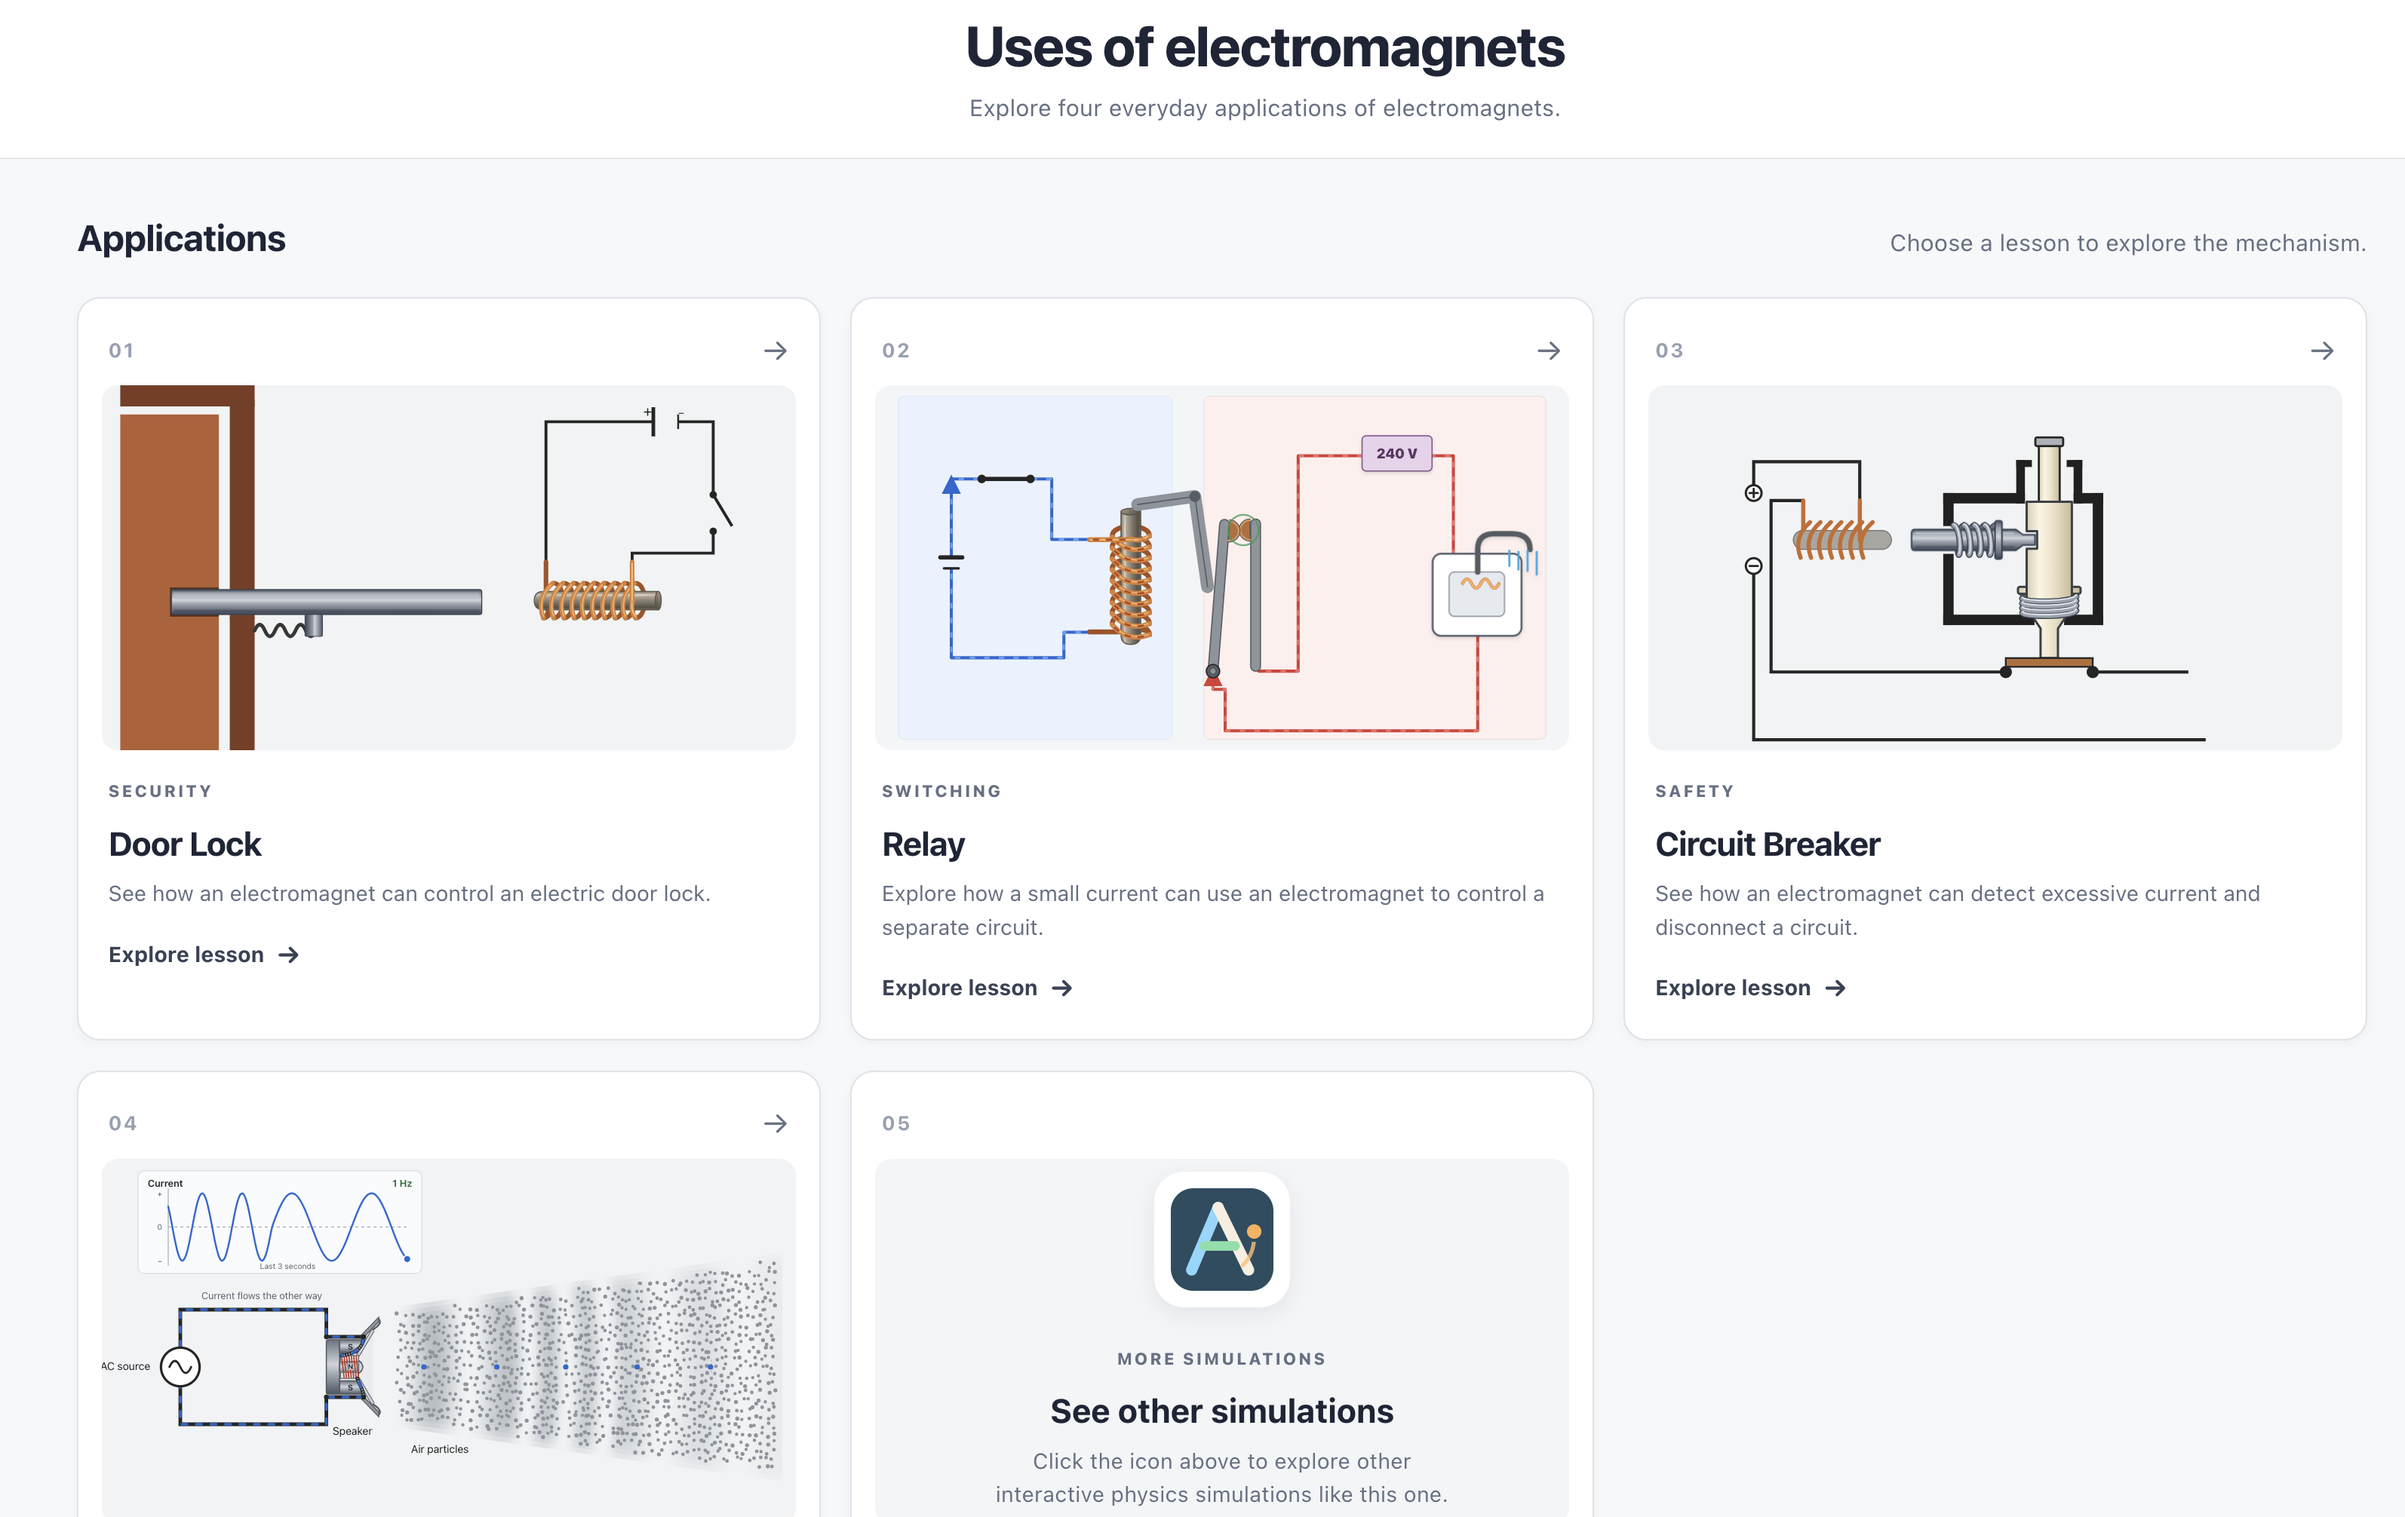
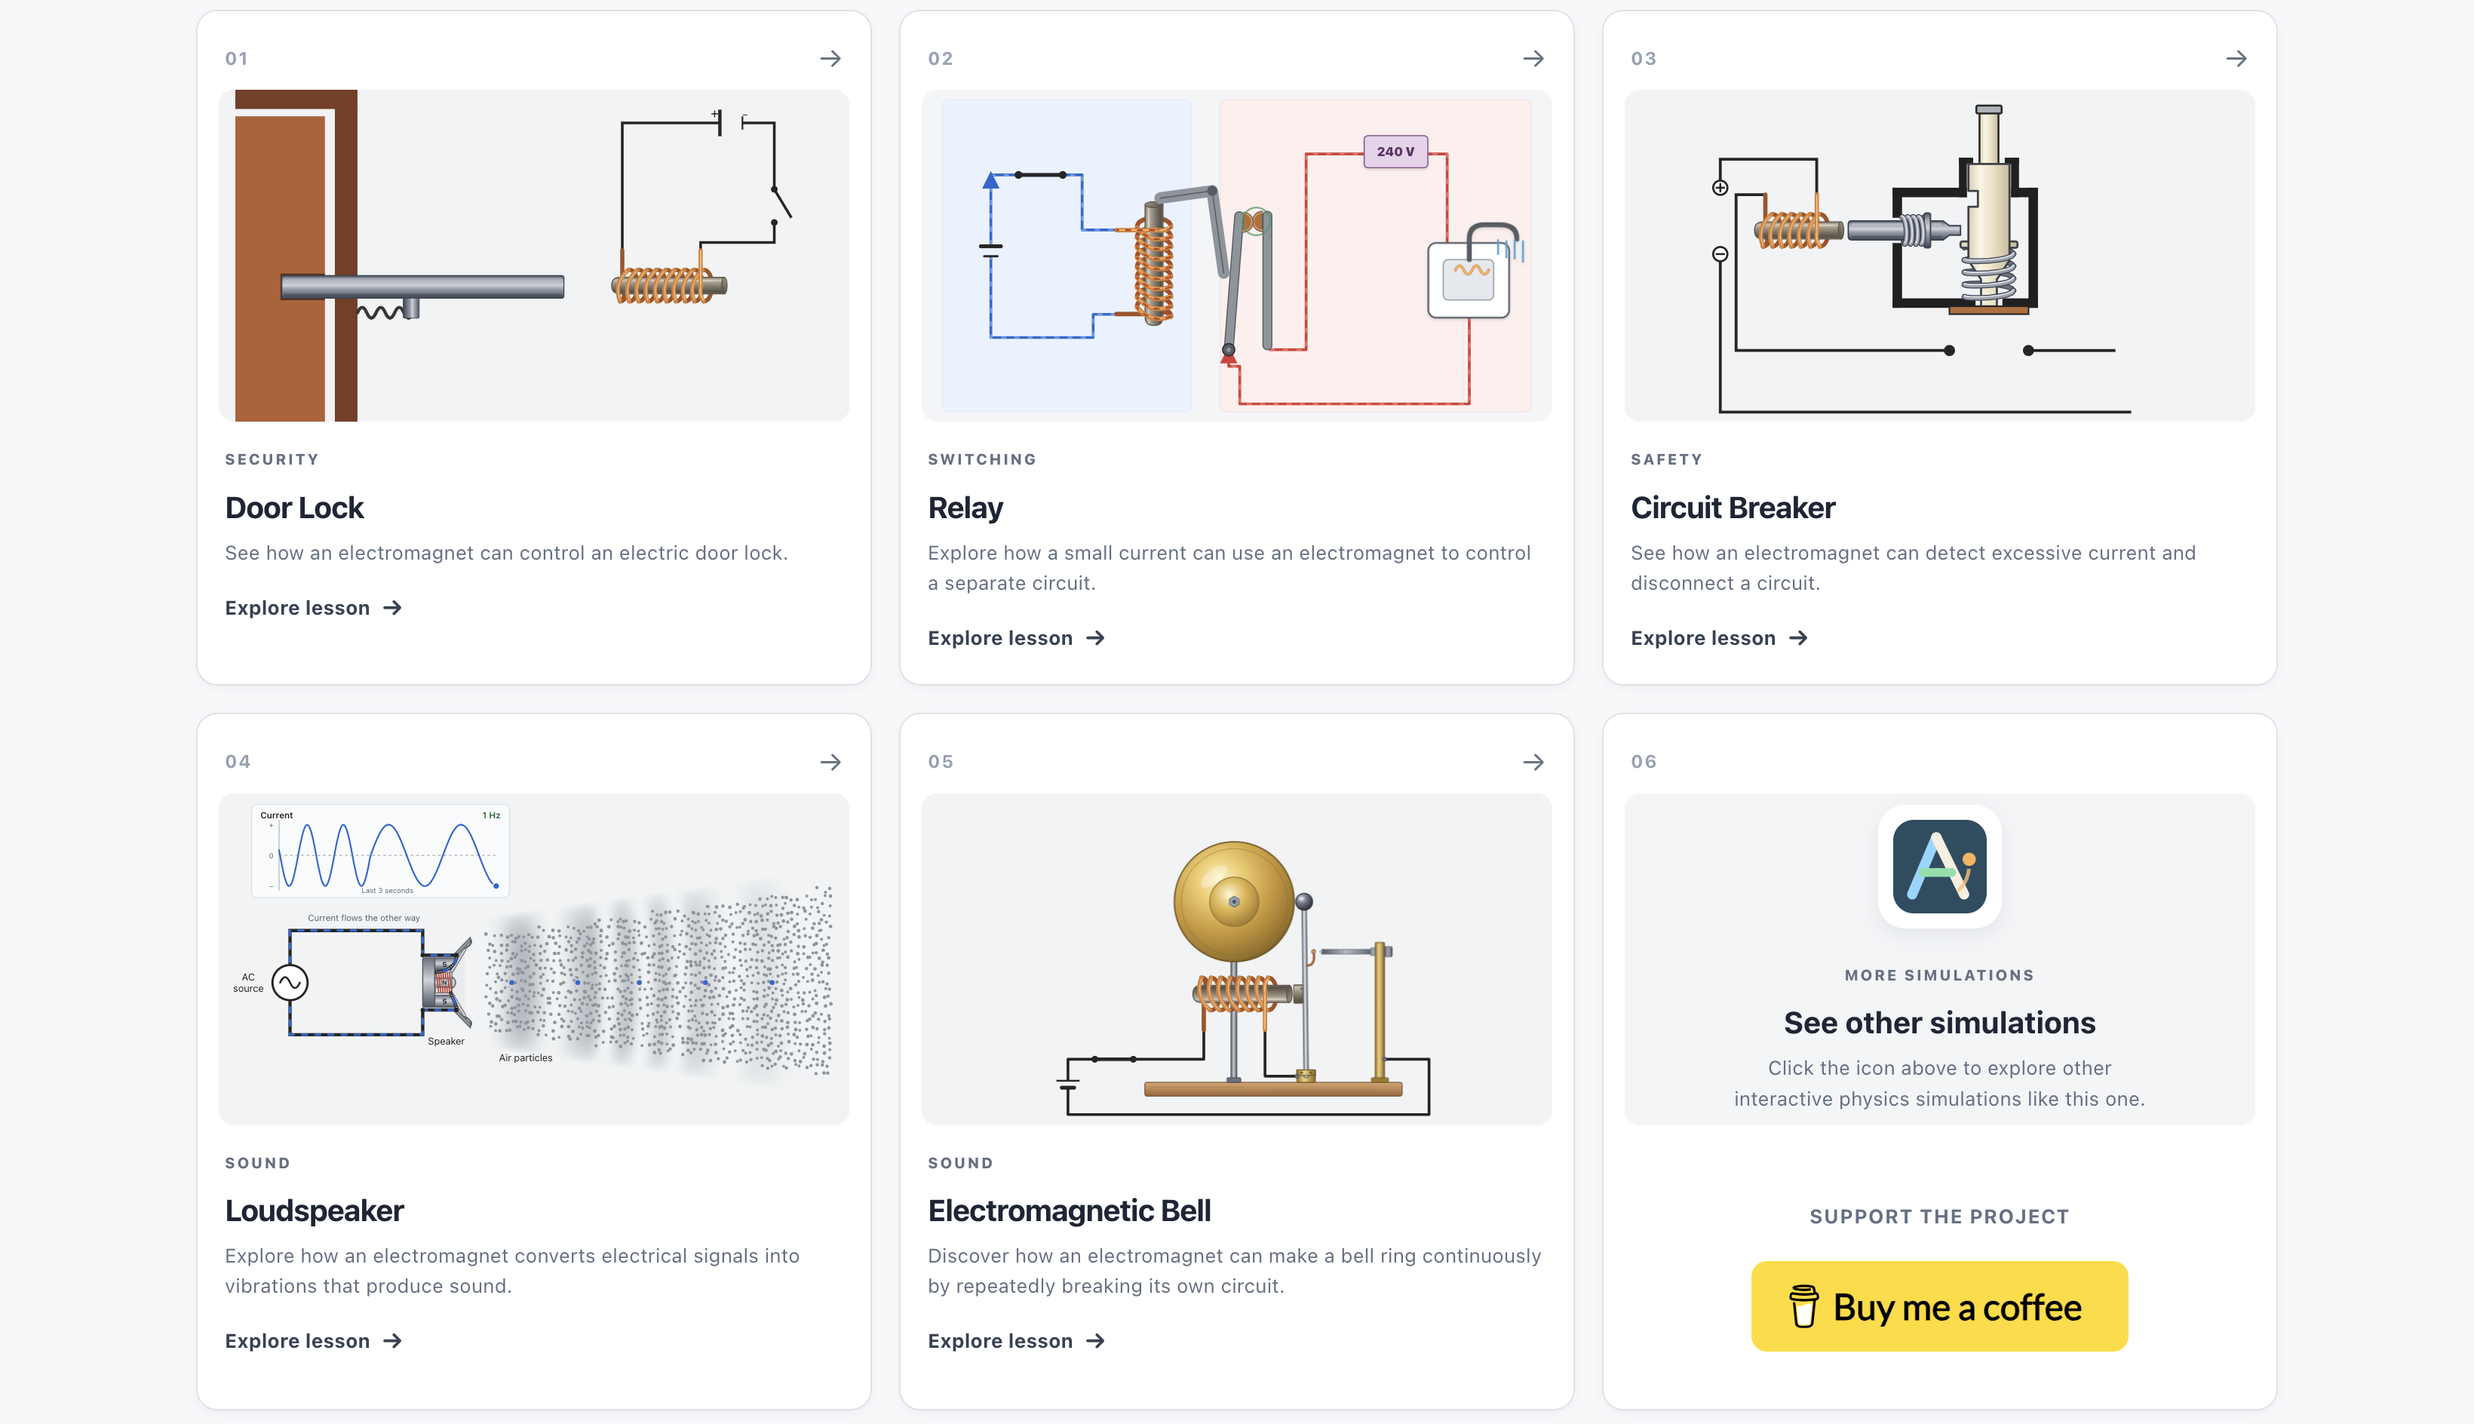
add and remove

diff --git a/app/page.tsx b/app/page.tsx
@@ -5,7 +5,6 @@ import {
   Atom,
   Camera,
   CircuitBoard,
-  Code2,
   ExternalLink,
   Magnet,
   Radio,
@@ -43,9 +42,21 @@ const simulations: Simulation[] = [
     description:
       'Explore double slits, diffraction gratings, Huygens’ wavelets and standing waves.',
     category: 'Waves',
+    alsoIn: ['A Level'],
     tags: ['interference', 'diffraction', 'wavelets', 'standing waves'],
     accent: '#55d6e8',
     icon: Waves,
+  },
+  {
+    title: 'Gravitational Fields',
+    slug: 'gravity-fields',
+    description:
+      'Visualise how mass creates gravitational fields and how field strength changes with distance.',
+    category: 'Gravity',
+    alsoIn: ['A Level'],
+    tags: ['gravity', 'field strength', 'mass', 'orbits'],
+    accent: '#7cd0ff',
+    icon: Atom,
   },
   {
     title: 'Reflection and Refraction',
@@ -127,26 +138,6 @@ const simulations: Simulation[] = [
     tags: ['light', 'images', 'rays', 'pinhole'],
     accent: '#f39ac7',
     icon: Camera,
-  },
-  {
-    title: 'Sampling Analogue Signals',
-    slug: 'sampling-analogue',
-    description:
-      'Change the sample rate, reconstruct a signal and watch aliasing happen in real time.',
-    category: 'Signals',
-    tags: ['sampling', 'aliasing', 'analogue', 'digital'],
-    accent: '#8ddc74',
-    icon: Radio,
-  },
-  {
-    title: 'Hot-Air Balloon Lab',
-    slug: 'hot-air-balloon',
-    description:
-      'Connect particle collisions, pressure, density and buoyancy—then make a balloon fly.',
-    category: 'Thermal',
-    tags: ['pressure', 'buoyancy', 'particles', 'density'],
-    accent: '#f1b95b',
-    icon: Atom,
   },
   {
     title: 'Why does salt make ice colder?',
@@ -267,7 +258,6 @@ export default function Home() {
             {visibleSimulations.map((simulation) => {
               const Icon = simulation.icon;
               const launchUrl = `https://awm11.github.io/${simulation.slug}/`;
-              const sourceUrl = `https://github.com/awm11/${simulation.slug}`;
 
               return (
                 <article
@@ -319,16 +309,6 @@ export default function Home() {
                           <span key={tag}>{tag}</span>
                         ))}
                       </div>
-                      <a
-                        className="source-link"
-                        href={sourceUrl}
-                        target="_blank"
-                        rel="noreferrer"
-                        aria-label={`View source code for ${simulation.title}`}
-                      >
-                        <Code2 size={16} aria-hidden="true" />
-                        Source
-                      </a>
                     </div>
                   </div>
                 </article>
@@ -354,14 +334,16 @@ export default function Home() {
       </section>
 
       <footer>
-        <p>awm physics</p>
-        <div className="footer-actions">
+        <div className="footer-banner">
+          <p>Enjoying the simulations? Support the project by buying me a coffee.</p>
           <iframe
             className="coffee-button"
             title="Buy me a coffee"
             srcDoc={buyMeACoffeeEmbed}
             loading="lazy"
           />
+        </div>
+        <div className="footer-actions">
           <a href="#top">Back to top ↑</a>
         </div>
       </footer>

diff --git a/app/globals.css b/app/globals.css
@@ -418,23 +418,43 @@ main {
 
 footer {
   display: flex;
+  flex-direction: column;
   align-items: center;
-  justify-content: space-between;
-  gap: 20px;
-  padding: 31px max(20px, calc((100% - 1180px) / 2));
+  gap: 12px;
+  padding: 28px max(20px, calc((100% - 1180px) / 2)) 40px;
   color: #93a2a6;
   font-size: 0.78rem;
   border-top: 1px solid var(--border);
 }
 
-footer p {
+.footer-banner {
+  display: flex;
+  align-items: center;
+  justify-content: space-between;
+  gap: 18px;
+  width: min(1180px, 100%);
+  margin: 0 auto;
+  padding: 0;
+  background: transparent;
+  border: 0;
+  border-radius: 0;
+  box-shadow: none;
+}
+
+.footer-banner p {
   margin: 0;
+  color: #ebf3f4;
+  font-size: 0.95rem;
+  line-height: 1.4;
 }
 
 .footer-actions {
   display: flex;
   align-items: center;
-  gap: 22px;
+  justify-content: center;
+  width: min(1180px, 100%);
+  margin: 0 auto;
+  gap: 16px;
 }
 
 .coffee-button {
@@ -442,6 +462,13 @@ footer p {
   height: 60px;
   overflow: hidden;
   border: 0;
+  border-radius: 0;
+  box-shadow: none;
+  transition: transform 180ms ease;
+}
+
+.coffee-button:hover {
+  transform: scale(1.03);
 }
 
 footer a:hover {
@@ -518,14 +545,17 @@ footer a:hover {
   }
 
   footer {
-    align-items: flex-start;
+    padding-top: 22px;
+  }
+
+  .footer-banner {
     flex-direction: column;
+    align-items: flex-start;
   }
 
   .footer-actions {
     width: 100%;
-    align-items: flex-start;
-    flex-direction: column;
+    justify-content: flex-start;
   }
 }
 
